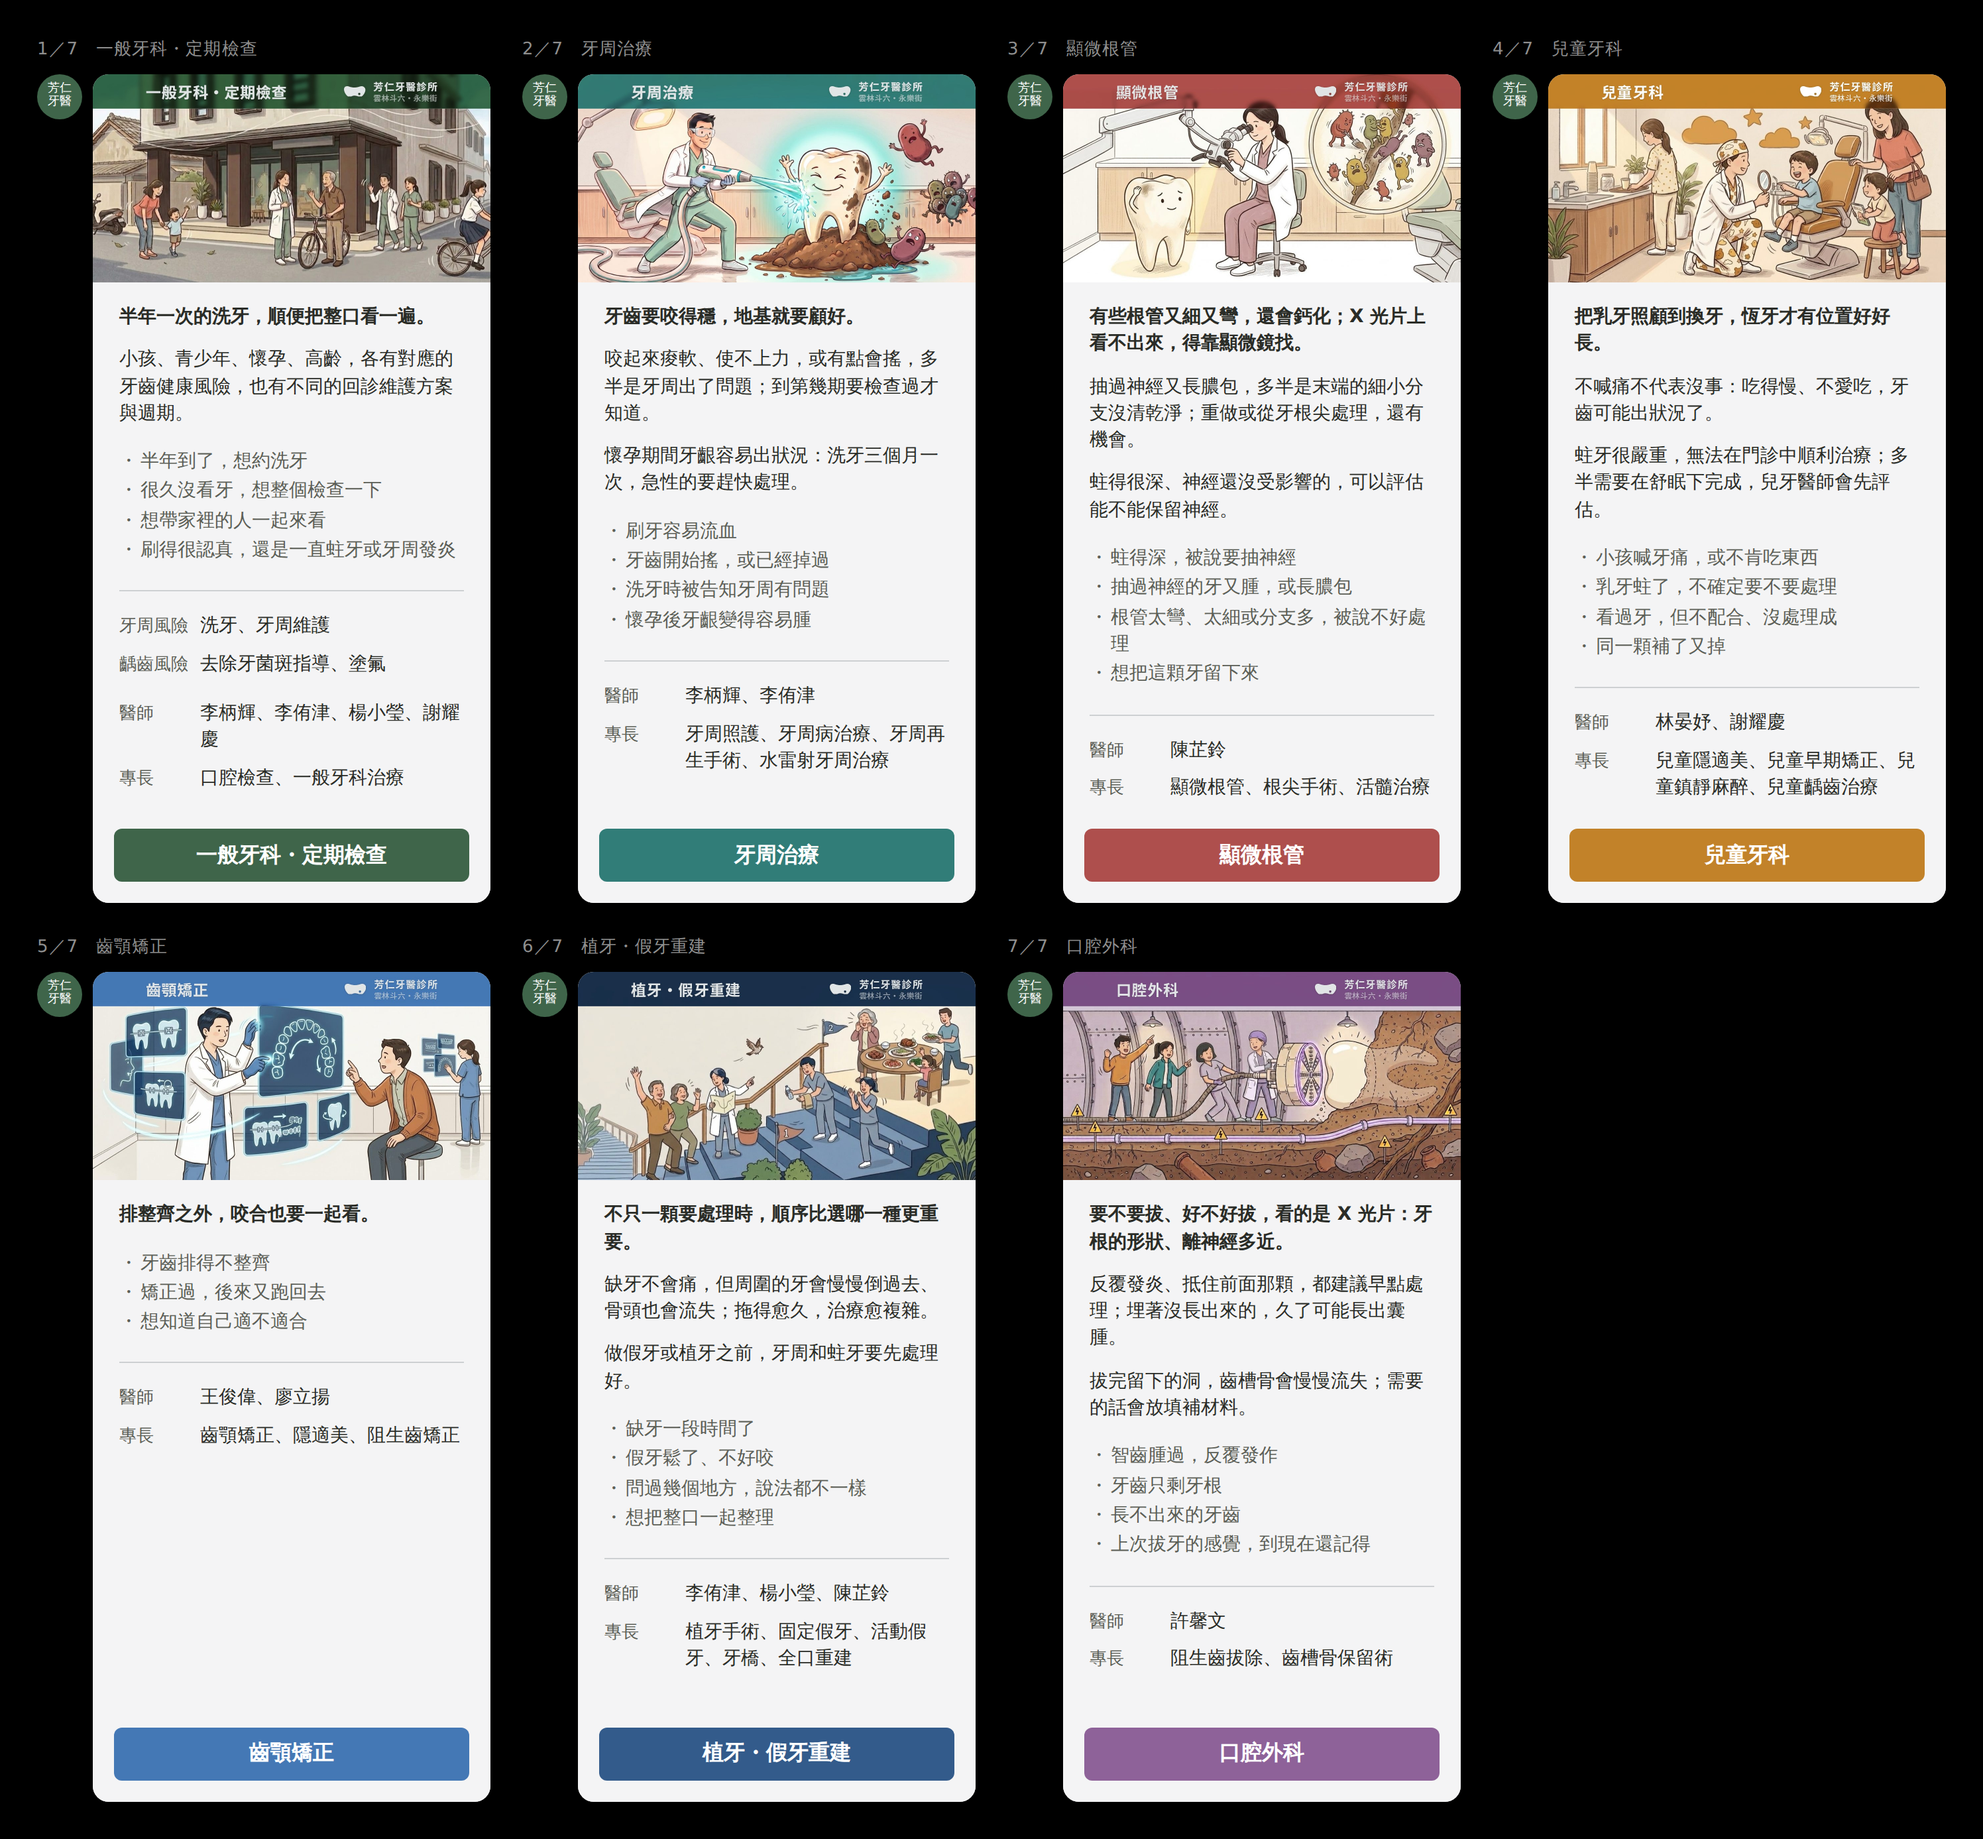
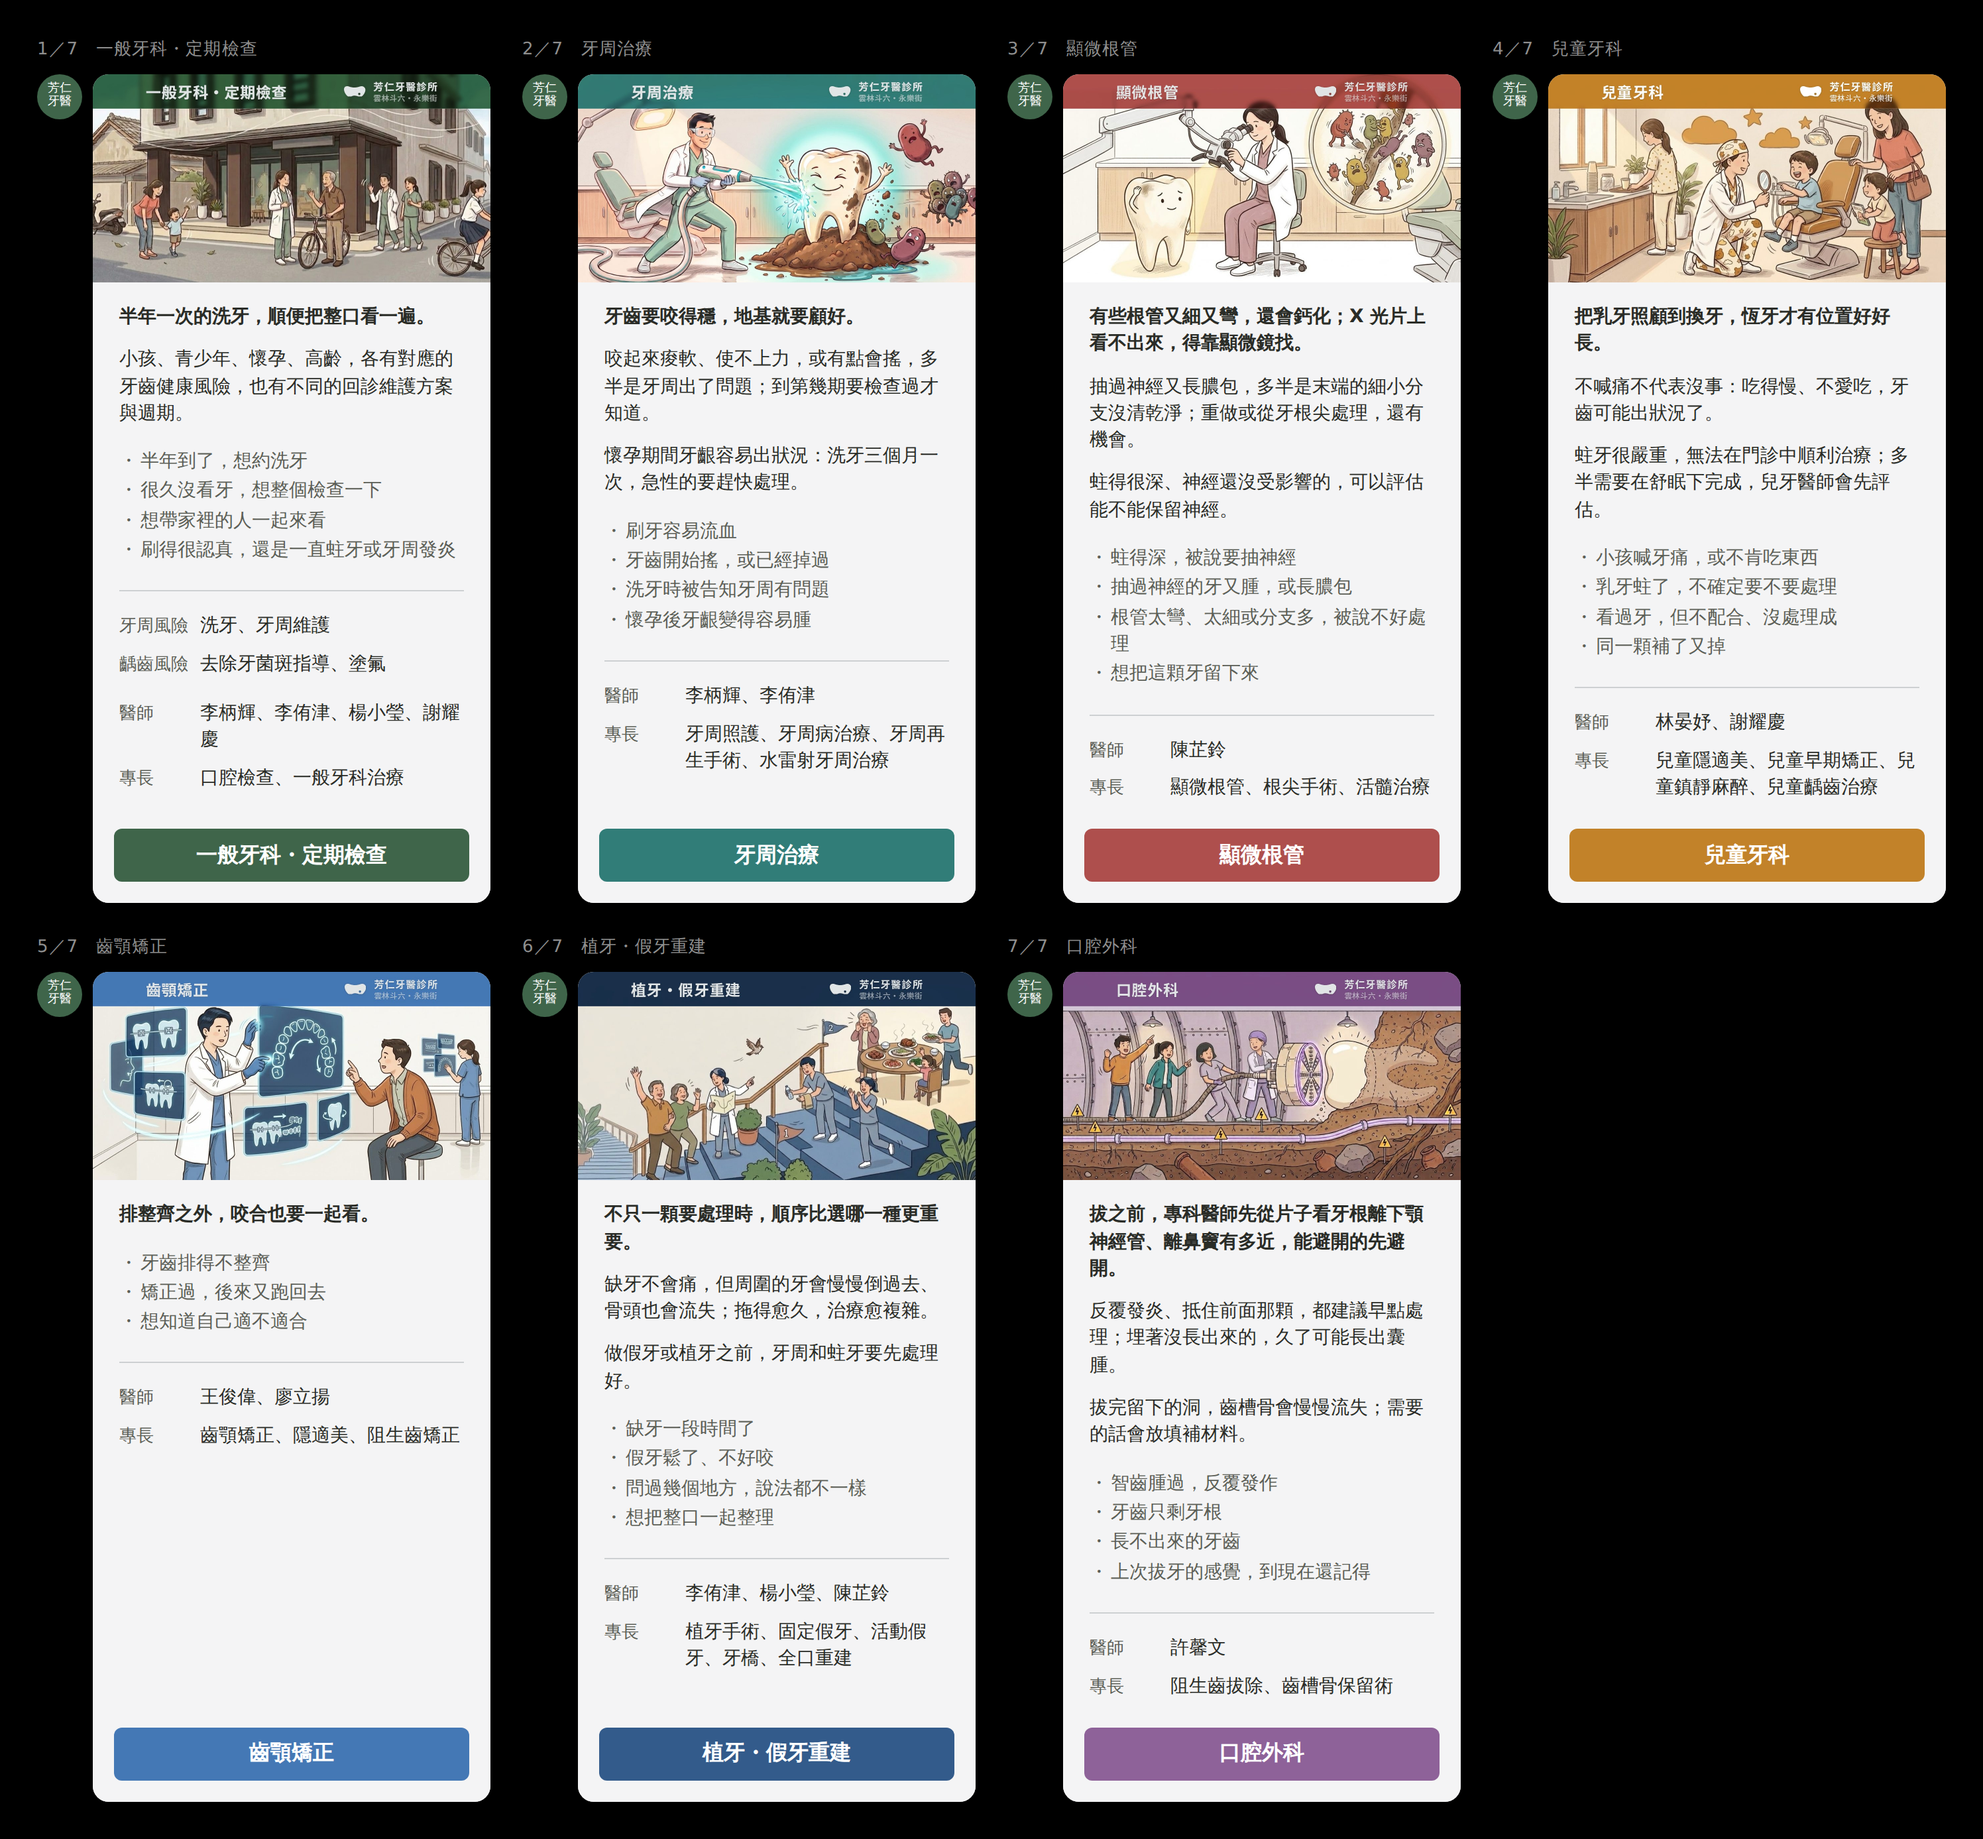
口外開場重寫：從「要不要拔」換成專科醫師在片子上先看什麼
使用者：「這句話好像跟現在的資訊不太符合了，會看進來的大概都知道要拔，只是在
猶豫。倒是可以說專科醫師從 X 光片判讀術後風險、有無併發症，例如鼻竇穿孔、侵犯
下顎神經管之類的。但也不要把併發症寫得太可怕，併發症還是可以照顧、慢慢恢復，
不是一定會萬劫不復。」

⚠ 判準是「他到了哪一步」：這一科的讀者不是在決定要不要，是已經決定了、卡在怕。
開場問「要不要拔」等於沒接到他。通則已補進臨床顧問紅線：寫開場之前先問
「他點進來的時候，決定做完了沒」。

⚠ 併發症的名字沒有寫進卡片（穿孔、侵犯這類詞在 300px 上一定被讀成恐嚇），
改成講解剖位置（下顎神經管、鼻竇）＋先避開 —— 份量到了，畫面沒有塞進去。
這一條也補進紅線（近親：COPY.md「提到鐵鎚敲就等於把畫面塞進他腦子裡」）。

定案：「拔之前，專科醫師先從片子看牙根離下顎神經管、離鼻竇有多近，
能避開的先避開。」「能避開的」有邊界，不是「一定不會有事」。

⚠ 鼻竇是使用者這一輪給的新事實，站上沒寫過。

Claude-Session: https://claude.ai/code/session_01QMa36HgXCp2rYEV7ykbWqK

Changed region(s): [[0.5284, 0.651, 0.7149, 0.9301]]

diff --git a/TEAM.md b/TEAM.md
@@ -328,6 +328,13 @@
     ・「（孩子）**配合不了**門診治療」→ 主詞是孩子，變成**他沒做到**。
     ・「（這件事）**無法在門診中順利治療**」→ 主詞是那個**治療情境**，沒有人失職。
     連帶：**不用「先試」「盡量」這種把責任放回病人身上的字。**
+  - ⚠⚠ **寫開場之前先問「他點進來的時候，決定做完了沒」。**
+    2026-08-27 踩過：口外那張開場問「要不要拔」，可是會點進來的人**多半已經
+    決定要拔、卡在怕** —— 問一個他早就答完的問題，等於沒接到他。
+  - ⚠⚠ **要傳達風險的份量，用解剖位置與處理方式，不要用併發症的名字。**
+    「鼻竇穿孔」「侵犯神經」放在一張 300px 的卡片上一定被讀成恐嚇；
+    「離下顎神經管、離鼻竇有多近，能避開的先避開」份量到了，**畫面沒有塞進去**。
+    （近親：COPY.md 第九之十八節「提到鐵鎚敲就等於把畫面塞進他腦子裡」。）
   - ⚠⚠⚠ **立場要從臨床事實長出來，不要從品牌語氣長出來。**
     2026-08-27 踩過：口外那張寫「不是每一顆都要拔」，聽起來像「不過度治療」
     （品牌會喜歡），但**臨床上站不住** —— 埋著沒長出來的智齒，沒有症狀
